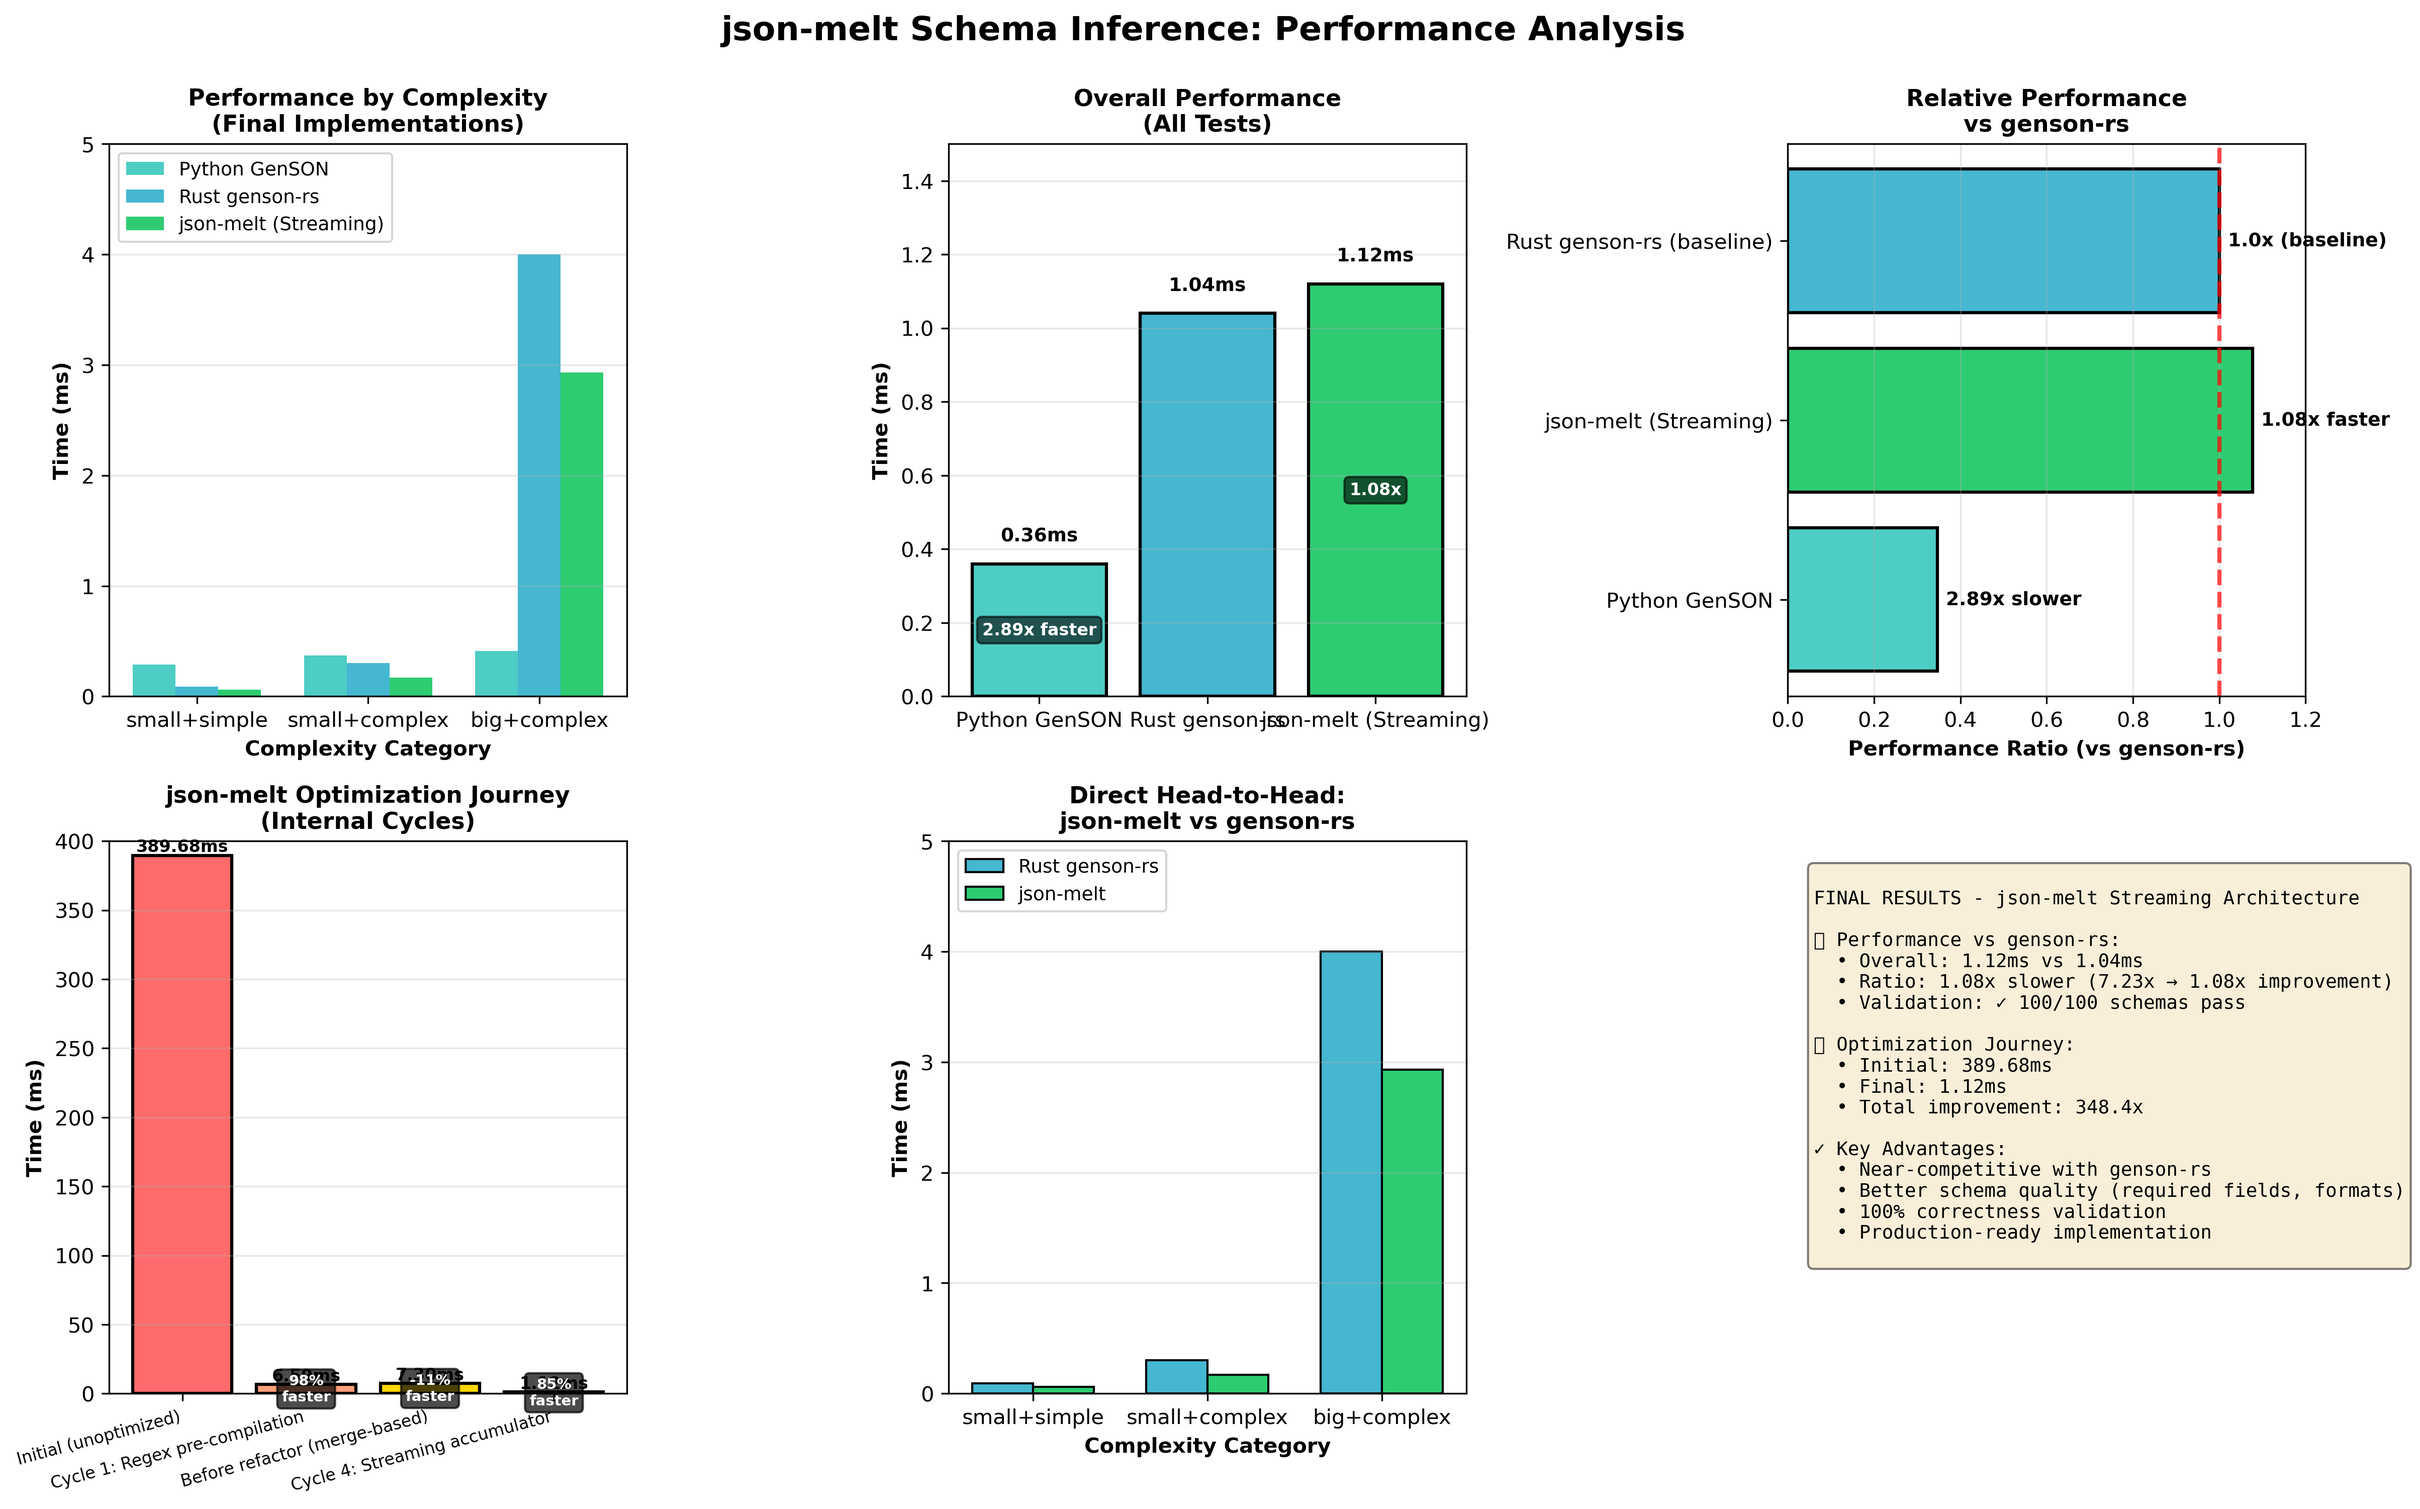
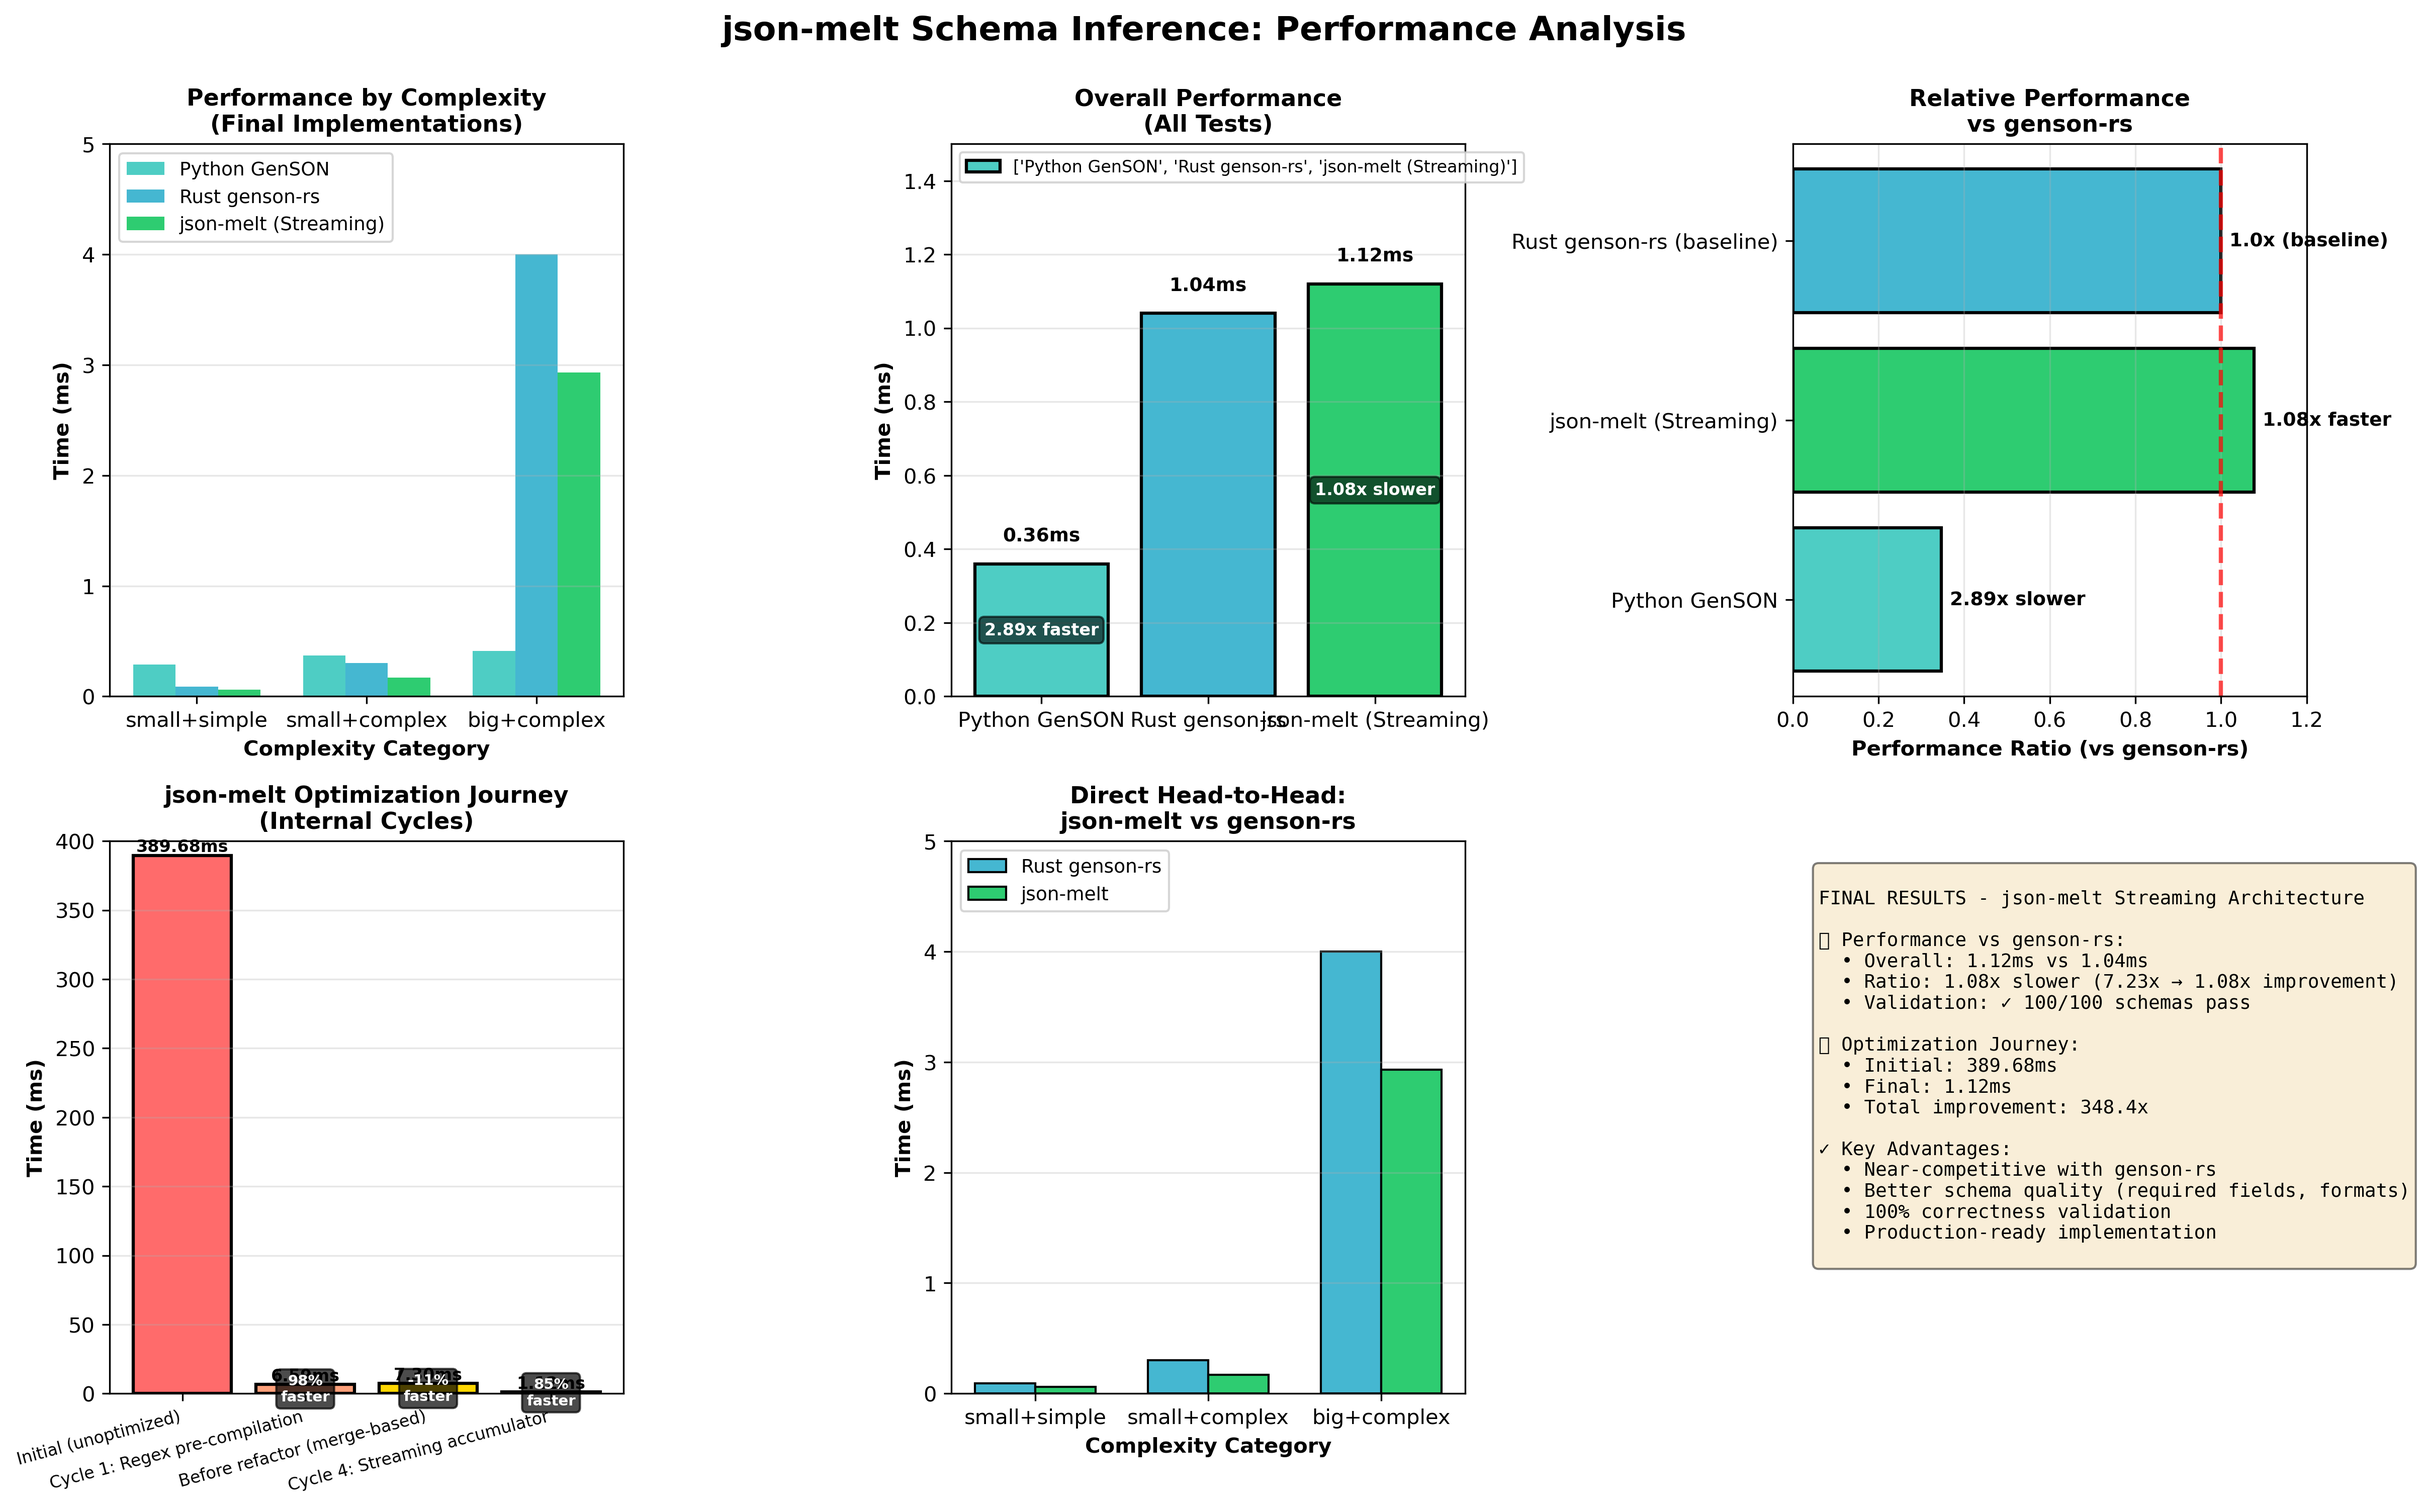
Add legend to overall performance comparison chart

diff --git a/schema_inference/generate_performance_graphs.py b/schema_inference/generate_performance_graphs.py
@@ -79,11 +79,12 @@ names = list(final_comparison.keys())
 times = list(final_comparison.values())
 bar_colors = ['#4ECDC4', '#45B7D1', '#2ECC71']
 
-bars = ax2.bar(names, times, color=bar_colors, edgecolor='black', linewidth=1.5)
+bars = ax2.bar(names, times, color=bar_colors, edgecolor='black', linewidth=1.5, label=names)
 ax2.set_ylabel('Time (ms)', fontsize=10, fontweight='bold')
 ax2.set_title('Overall Performance\n(All Tests)', fontsize=11, fontweight='bold')
 ax2.set_ylim(0, 1.5)
 ax2.grid(axis='y', alpha=0.3)
+ax2.legend(fontsize=8, loc='upper left')
 
 # Add value labels and ratios
 genson_rs_time = final_comparison['Rust genson-rs']
@@ -94,7 +95,7 @@ for bar, (name, val) in zip(bars, final_comparison.items()):
 
     if name != 'Rust genson-rs':
         ratio = val / genson_rs_time
-        ratio_text = f'{ratio:.2f}x' if ratio > 1 else f'{1/ratio:.2f}x faster'
+        ratio_text = f'{ratio:.2f}x slower' if ratio > 1 else f'{1/ratio:.2f}x faster'
         ax2.text(bar.get_x() + bar.get_width()/2., height/2,
                 ratio_text, ha='center', va='center', fontsize=8, color='white', fontweight='bold',
                 bbox=dict(boxstyle='round', facecolor='black', alpha=0.6))

diff --git a/README.md b/README.md
@@ -269,9 +269,9 @@ This project includes a production-ready JSON schema inference library ported fr
 - Ratio: **1.08x slower** (was 7.23x slower before refactor)
 - Validation: ✅ 100/100 schemas pass correctness tests
 
-![Performance Summary](https://raw.githubusercontent.com/mike-weinberg/furnace/main/schema_inference/performance_graphs.png?t=1763020856)
+![Performance Summary](https://raw.githubusercontent.com/mike-weinberg/furnace/main/schema_inference/performance_graphs.png?t=1763020933)
 
-![Optimization Timeline](https://raw.githubusercontent.com/mike-weinberg/furnace/main/schema_inference/optimization_timeline.png?t=1763020856)
+![Optimization Timeline](https://raw.githubusercontent.com/mike-weinberg/furnace/main/schema_inference/optimization_timeline.png?t=1763020933)
 
 ### Key Results
 
